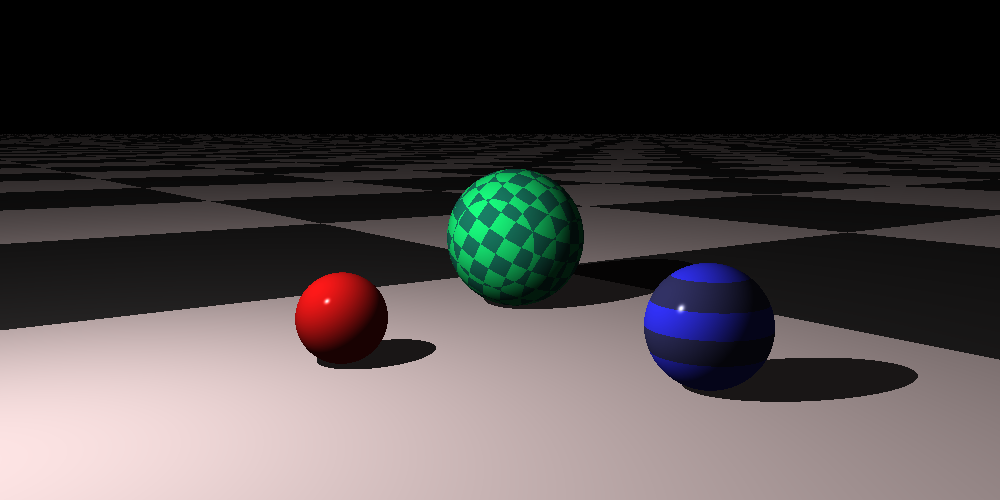
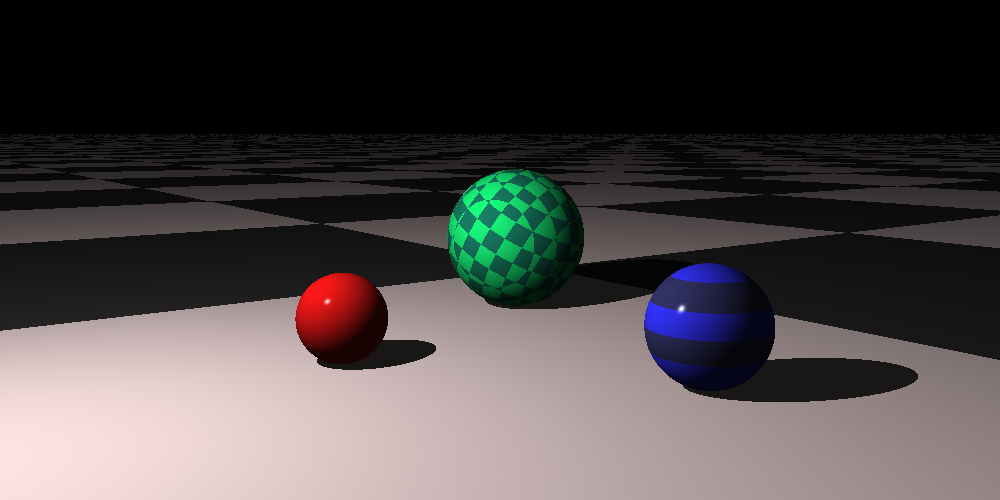
Added anti-aliasing

Changed region(s): [[0.0, 0.27, 1.0, 0.36]]

diff --git a/scene/camera.go b/scene/camera.go
@@ -4,6 +4,8 @@ import (
 	"math"
 	"sync"
 
+	"github.com/Henelik/tricaster/color"
+
 	"github.com/Henelik/tricaster/canvas"
 	"github.com/Henelik/tricaster/matrix"
 	"github.com/Henelik/tricaster/ray"
@@ -21,11 +23,12 @@ type Camera struct {
 	halfWidth  float64
 	halfHeight float64
 	pixelSize  float64
+	AALevel    int
 }
 
 // NewCamera creates a new camera.
 // Set fov to 0 and transform to nil to use defaults.
-func NewCamera(hSize, vSize int, fov float64, transform *matrix.Matrix) *Camera {
+func NewCamera(hSize, vSize int, fov float64, transform *matrix.Matrix, aaLevel int) *Camera {
 	c := &Camera{
 		hSize: hSize,
 		vSize: vSize,
@@ -42,6 +45,19 @@ func NewCamera(hSize, vSize int, fov float64, transform *matrix.Matrix) *Camera 
 		c.m = transform
 	}
 	c.im = c.m.Inverse()
+
+	switch aaLevel {
+	case 2:
+		c.AALevel = 2
+	case 4:
+		c.AALevel = 4
+	case 8:
+		c.AALevel = 8
+	case 16:
+		c.AALevel = 16
+	default:
+		c.AALevel = 0
+	}
 
 	halfView := math.Tan(c.FOV / 2)
 	aspect := float64(hSize) / float64(vSize)
@@ -95,6 +111,38 @@ func (c *Camera) RayForPixel(x, y int) *ray.Ray {
 	return ray.NewRay(origin, direction)
 }
 
+func (c *Camera) AARaysForPixel(x, y int) []*ray.Ray {
+	if c.AALevel == 0 {
+		return []*ray.Ray{c.RayForPixel(x, y)}
+	}
+	rs := make([]*ray.Ray, 0, c.AALevel*c.AALevel)
+
+	// the offset from the edge of the canvas to the pixel's center
+	xOffset := (float64(x) + 0.5) * c.pixelSize
+	yOffset := (float64(y) + 0.5) * c.pixelSize
+	// the distance between sampled sub-pixel points on the canvas
+	aaOffset := c.pixelSize / float64(c.AALevel+1)
+	origin := c.im.MultTuple(tuple.Origin)
+
+	for aax := 0; aax < c.AALevel; aax++ {
+		for aay := 0; aay < c.AALevel; aay++ {
+			// the untransformed coordinates of the pixel in world space.
+			// (remember that the camera looks toward -y, so +x is to the *right*.)
+			worldX := c.halfWidth - xOffset + float64(aax)*aaOffset
+			worldY := c.halfHeight - yOffset + float64(aay)*aaOffset
+
+			// using the camera matrix, transform the canvas point and the origin,
+			// and then compute the ray's direction vector.
+			// (remember that the canvas is at y=-1)
+			pixel := c.im.MultTuple(tuple.NewPoint(worldX, worldY, -1))
+			direction := pixel.Sub(origin).Norm()
+			rs = append(rs, ray.NewRay(origin, direction))
+		}
+	}
+
+	return rs
+}
+
 func (c *Camera) Render(w *World) *canvas.Canvas {
 	canv := canvas.NewCanvas(c.hSize, c.vSize)
 	for x := 0; x < c.hSize; x++ {
@@ -119,7 +167,12 @@ func (c *Camera) GoRender(n int, w *World) *canvas.Canvas {
 		defer wg.Done()
 		for x := xs; x < subH+xs; x++ {
 			for y := ys; y < subV+ys; y++ {
-				canv.Set(x, y, w.ColorAt(c.RayForPixel(x, y)))
+				rs := c.AARaysForPixel(x, y)
+				cols := make([]*color.Color, len(rs))
+				for i, r := range rs {
+					cols[i] = w.ColorAt(r)
+				}
+				canv.Set(x, y, color.Avg(cols))
 			}
 		}
 	}

diff --git a/cmd/main.go b/cmd/main.go
@@ -139,7 +139,7 @@ func drawSphereTest() {
 		matrix.ViewTransform(
 			tuple.Origin,
 			tuple.NewPoint(0, 5, 0),
-			tuple.Up))
+			tuple.Up), 16)
 
 	cam.Render(world).SaveImage("new_sphere.png")
 
@@ -262,7 +262,7 @@ func drawTestScene() {
 		matrix.ViewTransform(
 			tuple.NewPoint(-15, -10, 5),
 			tuple.NewPoint(3, 3, 2),
-			tuple.Up))
+			tuple.Up), 4)
 
-	c.GoRender(2, w).SaveImage("scene.png")
+	c.GoRender(2, w).SaveImage("scene_aax4.png")
 }

diff --git a/color/color.go b/color/color.go
@@ -48,3 +48,11 @@ func (c *Color) Equal(o *Color) bool {
 		util.Equal(c.G, o.G) &&
 		util.Equal(c.B, o.B)
 }
+
+func Avg(cs []*Color) *Color {
+	avg := cs[0]
+	for i := 1; i < len(cs); i++ {
+		avg = avg.Add(cs[i])
+	}
+	return avg.MultF(1.0 / float64(len(cs)))
+}
